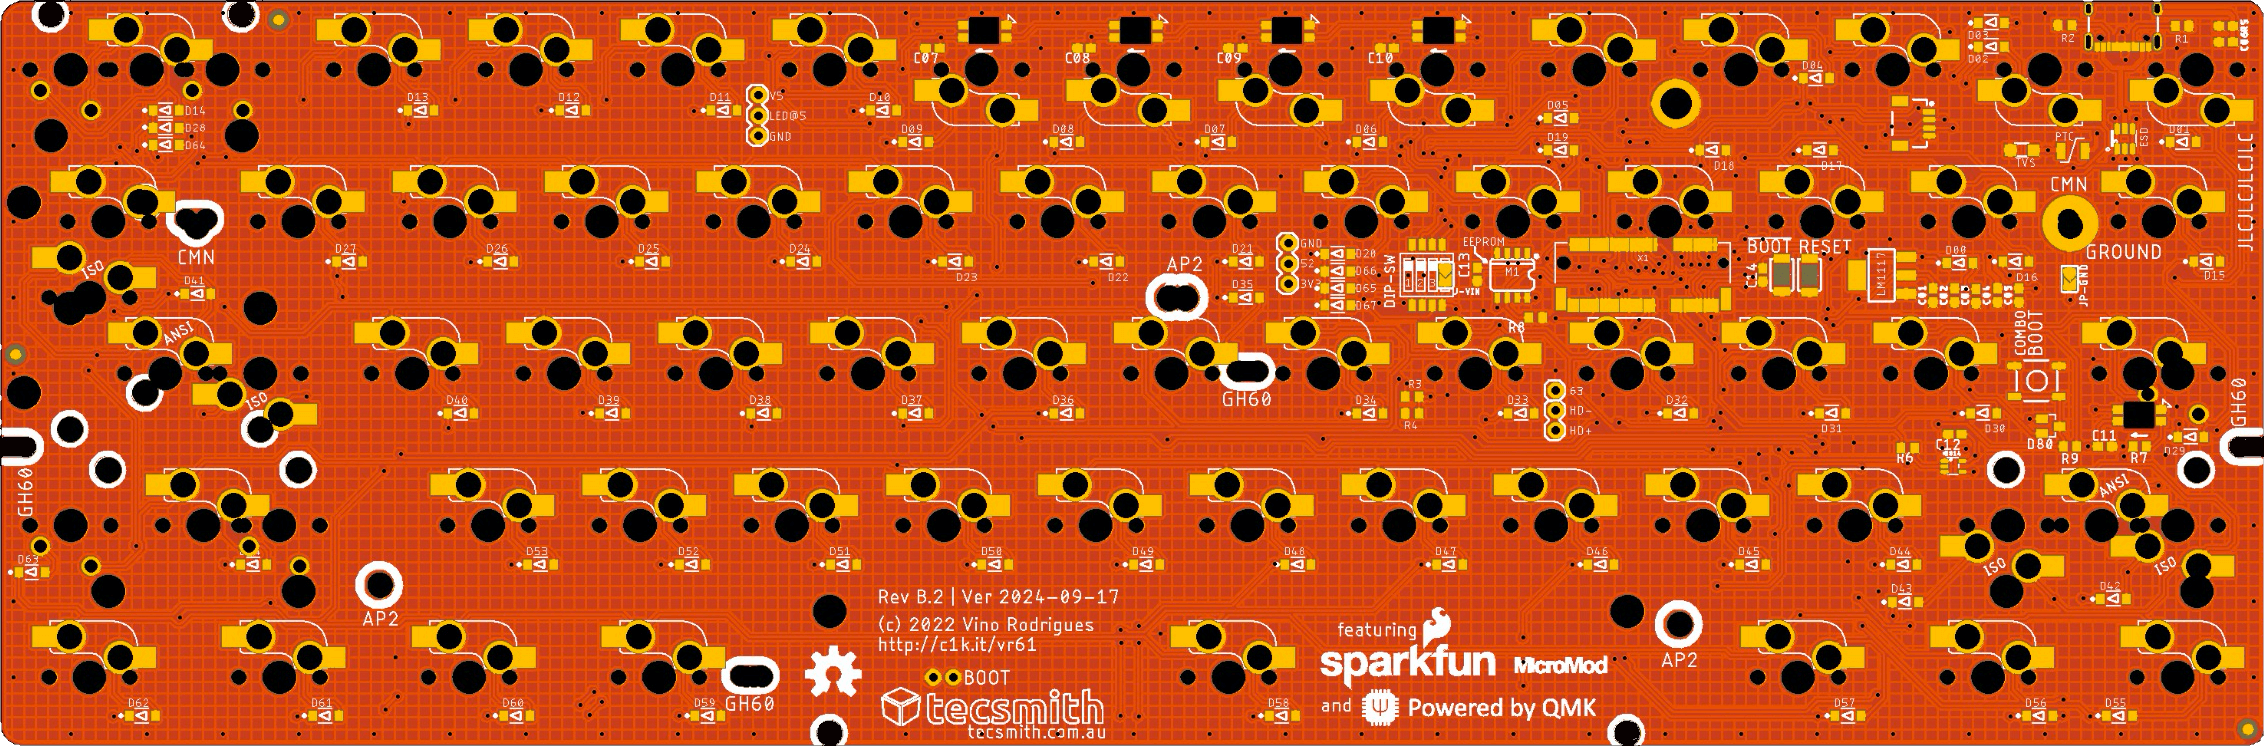
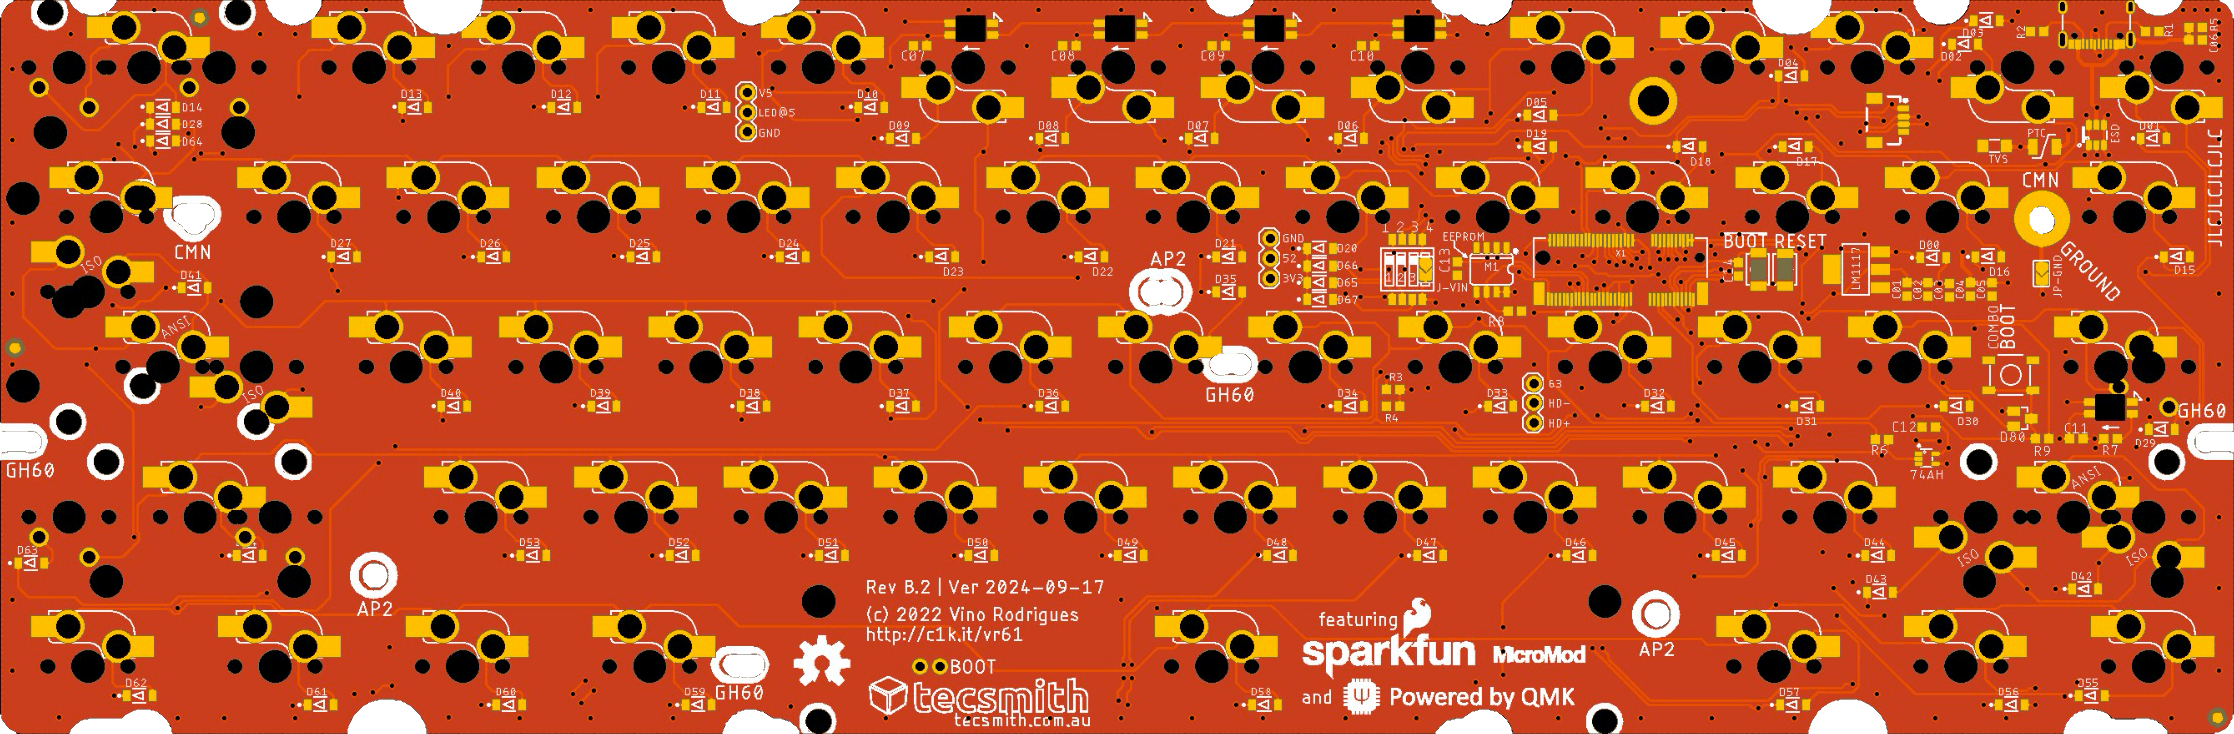
.

diff --git a/README.md b/README.md
@@ -116,4 +116,4 @@ Published as Open Source, under a [ Creative Commons Share-alike 4.0 Internation
     ... plus under space-bar Boot pins for bootload without disassembly *(press while inserting cable for bootloader function)*
 
 ---
-Made with &#9829; - Vino Rodrigues
+Made with &#9829; by Vino Rodrigues

diff --git a/CHANGELOG.md b/CHANGELOG.md
@@ -27,6 +27,7 @@ All notable updates to this project will be documented in this file.
   - Split Right Shift
   - Split Backspace
   - Stepped Caps-Lock
+- Added PCB edge slots to support Bakeneko type cases
 
 ### Changed
 
